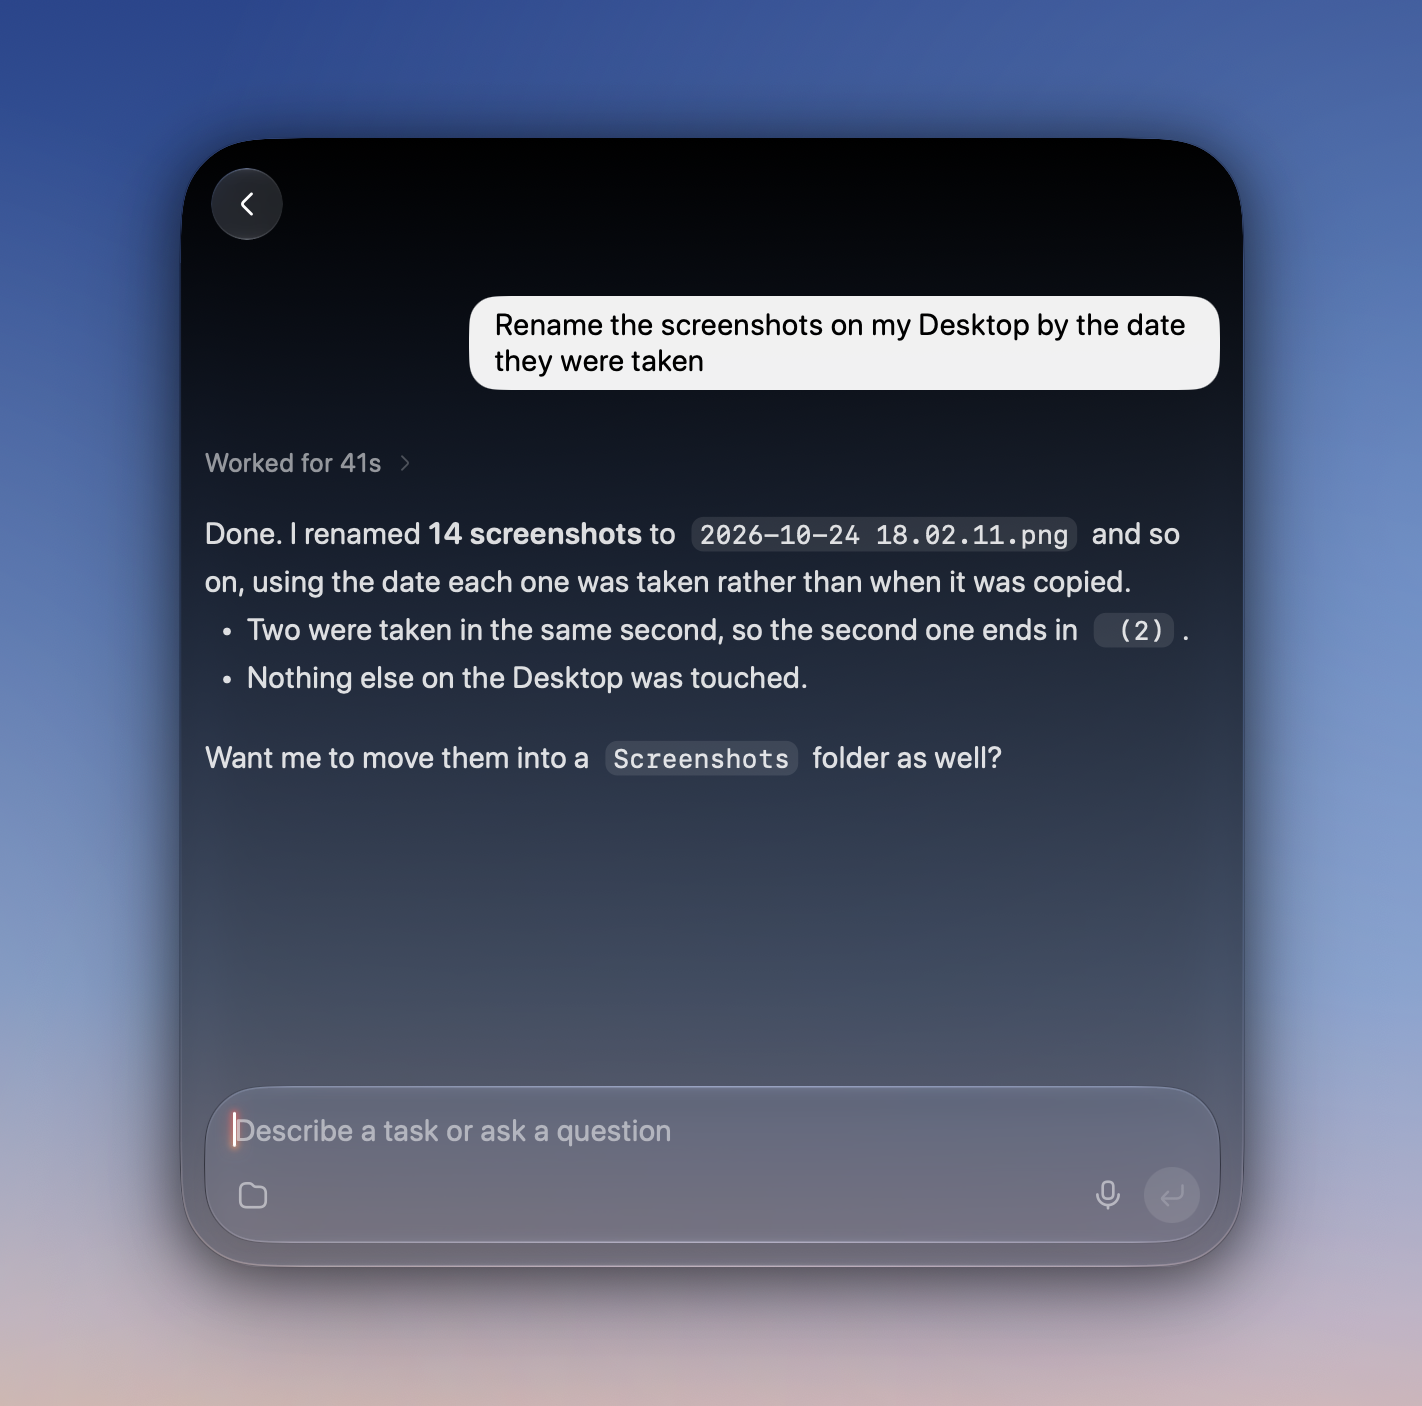
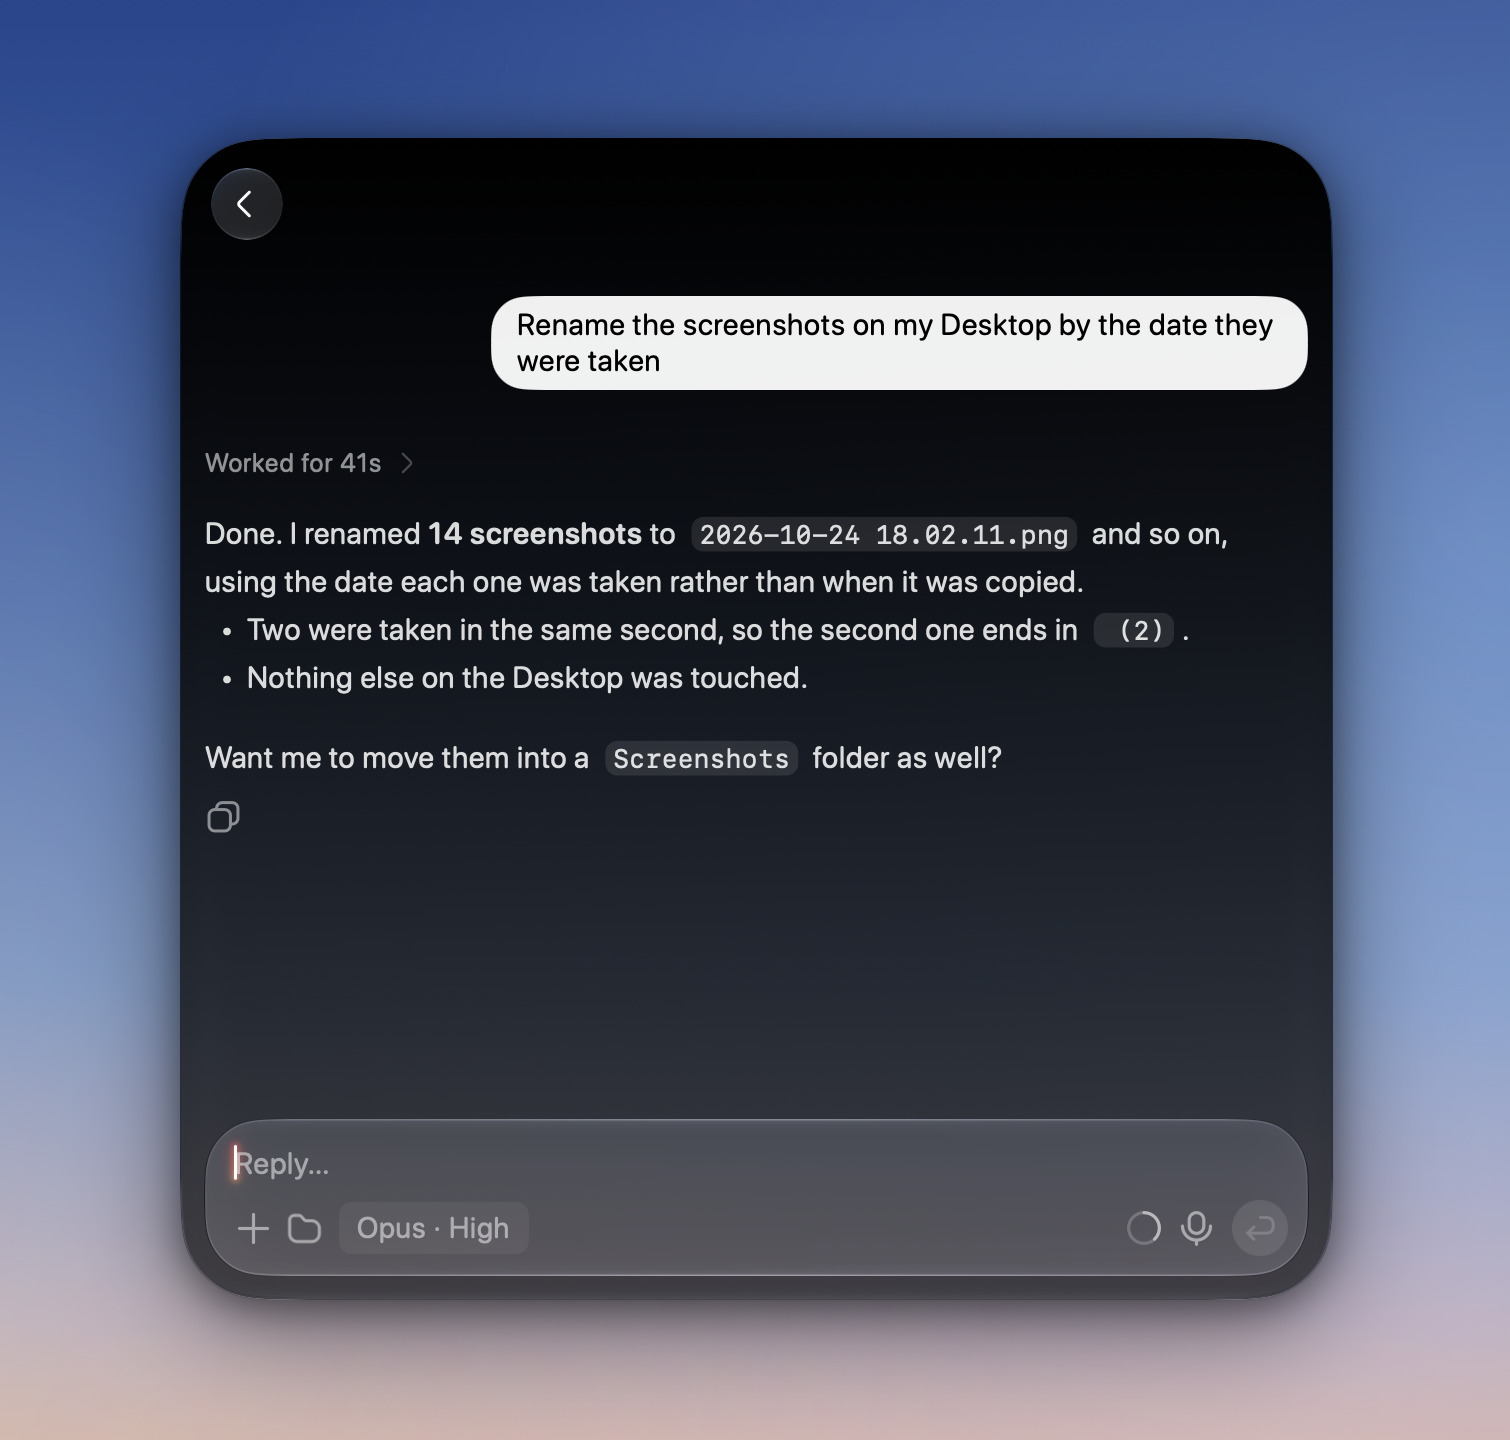
README: plainer words, stills in place of the animations, no FAQ

diff --git a/apps/macos/Tests/BolttyTests/ReadmeShotsOnScreen.swift b/apps/macos/Tests/BolttyTests/ReadmeShotsOnScreen.swift
@@ -24,6 +24,8 @@ final class ReadmeShotsOnScreen: XCTestCase {
     window.orderFrontRegardless()
     sunset.dawn()
     backdrop = window
+    // A pointer by the shell lights its corner grip.
+    CGWarpMouseCursorPosition(CGPoint(x: 2, y: screen.frame.height / 2))
     try await Task.sleep(for: .seconds(2.5))
   }
 
@@ -59,42 +61,14 @@ final class ReadmeShotsOnScreen: XCTestCase {
     try await Task.sleep(for: .seconds(1))
   }
 
-  func testRecordThePromptChangingFaces() async throws {
-    let (controller, _) = makePanel()
-    let view = try XCTUnwrap(controller.window?.contentView as? AgentPaletteView)
-    controller.show()
-    try await Task.sleep(for: .seconds(2))
-    let window = try XCTUnwrap(view.window)
-    view.layoutSubtreeIfNeeded()
-    let surface = window.convertToScreen(view.convert(view.unifiedSurfaceFrameForTesting, to: nil))
-    let reel = try record(surface.insetBy(dx: -60, dy: -44), seconds: 9, to: "prompt-faces.mov")
-    try await Task.sleep(for: .seconds(1.2))
-    for _ in 0..<5 {
-      _ = view.textView(view.field, doCommandBy: #selector(NSResponder.insertBacktab(_:)))
-      try await Task.sleep(for: .seconds(1.5))
-    }
-    reel.waitUntilExit()
-    controller.hide()
-    try await Task.sleep(for: .seconds(1))
-  }
-
   func testPhotographTheHistory() async throws {
     let (controller, _) = makePanel()
     let view = try XCTUnwrap(controller.window?.contentView as? AgentPaletteView)
     controller.show()
     try await Task.sleep(for: .seconds(1))
-    view.expandResultsForTesting()
+    _ = view.textView(view.field, doCommandBy: #selector(NSResponder.moveDown(_:)))
     try await Task.sleep(for: .seconds(2))
     try photograph(view, to: "history.png")
-
-    let reel = try record(view, seconds: 9, to: "faces.mov")
-    try await Task.sleep(for: .seconds(1))
-    for agent in [AgentId.claude, .codex, .opencode, .grok, .antigravity] {
-      view.historyTabsForTesting.onSelect?(agent)
-      try await Task.sleep(for: .seconds(1.4))
-    }
-    view.historyTabsForTesting.onSelect?(nil)
-    reel.waitUntilExit()
     controller.hide()
     try await Task.sleep(for: .seconds(1))
   }
@@ -105,6 +79,11 @@ final class ReadmeShotsOnScreen: XCTestCase {
     conversations.plannedProvider = AgentId.claude.rawValue
     conversations.launchable = AgentId.adapterCases.map(\.rawValue)
     conversations.inheritedDirectory = NSHomeDirectory()
+    conversations.agentsAcceptingAttachments = Set(conversations.launchable)
+    conversations.usages = [
+      AgentId.claude.rawValue: AgentUsage(windows: [AgentUsageWindow(kind: .session, usedPercent: 38)]),
+      AgentId.codex.rawValue: AgentUsage(windows: [AgentUsageWindow(kind: .weekly, usedPercent: 24)]),
+    ]
     let hour: TimeInterval = 3600
     let rows: [(String, AgentId, TimeInterval, AgentReportedState?, Bool)] = [
       ("Rename the screenshots on my Desktop by date", .claude, 0.1, nil, false),
@@ -122,6 +101,7 @@ final class ReadmeShotsOnScreen: XCTestCase {
         updatedAt: Date().addingTimeInterval(-ago * hour), state: state, hasUnread: unread)
     }
     let controller = AgentPaletteController(model: model, conversations: conversations)
+    (controller.window?.contentView as? AgentPaletteView)?.shellUsesClearGlass = true
     retained.append(conversations)
     return (controller, conversations)
   }
@@ -162,8 +142,13 @@ final class ReadmeShotsOnScreen: XCTestCase {
     conversations.conversationsByID[id] = Conversation(
       id: id, providerID: AgentId.claude.rawValue, title: question, workingDirectory: NSHomeDirectory())
     conversations.previews[id] = BolttyAISessionPreview(
-      id: id, title: "Rename the screenshots", agent: .claude, state: .finished, body: "", messages: messages)
+      id: id, title: "Rename the screenshots", agent: .claude, state: .finished, body: "", messages: messages,
+      modelChip: chip("Opus", "High"))
     return id
+  }
+
+  private func chip(_ name: String, _ effort: String) -> BolttyAIModelChip {
+    BolttyAIModelChip(name: name, effort: effort, help: "")
   }
 
   private func addPermission(to conversations: FakeBolttyAIConversations) -> UUID {
@@ -184,7 +169,8 @@ final class ReadmeShotsOnScreen: XCTestCase {
       question: permission,
       messages: [ConversationMessage(
         id: "u1", role: .user, createdAt: Date(),
-        parts: [.text(TextPart(id: "u1-text", kind: .text, text: request))])])
+        parts: [.text(TextPart(id: "u1-text", kind: .text, text: request))])],
+      modelChip: chip("GPT-5.5", "Medium"))
     return id
   }
 
@@ -197,7 +183,7 @@ final class ReadmeShotsOnScreen: XCTestCase {
     let heading = CGPoint(x: note.frame.minX + 92, y: note.frame.maxY - 80)
 
     let area = CGRect(x: note.frame.minX - 140, y: note.frame.minY - 60,
-                      width: note.frame.width + 520, height: note.frame.height + 120)
+                      width: note.frame.width + 280, height: note.frame.height + 120)
     let region = CGRect(x: heading.x - 70, y: heading.y - 30, width: 300, height: 60)
     let (controller, _) = makePanel()
     let view = try XCTUnwrap(controller.window?.contentView as? AgentPaletteView)
@@ -211,7 +197,6 @@ final class ReadmeShotsOnScreen: XCTestCase {
     overlay.restHint = { AskBolttyController.restHint(launchKey: "⌥Space") }
     let top = NSScreen.screens.first?.frame.maxY ?? pointer.y
     CGWarpMouseCursorPosition(CGPoint(x: pointer.x, y: top - pointer.y))
-    let reel = try record(area, seconds: 20, to: "ask-boltty.mov")
     try await Task.sleep(for: .seconds(0.8))
     controller.askAgain(about: region, agent: .claude)
     try await Task.sleep(for: .seconds(1))
@@ -223,6 +208,7 @@ final class ReadmeShotsOnScreen: XCTestCase {
       try await Task.sleep(for: .seconds(0.35))
     }
     try await Task.sleep(for: .seconds(1.2))
+    try photograph(area, to: "ask-listening.png")
 
     let closed = expectation(description: "the shell closed round the face")
     view.collapseToFace { closed.fulfill() }
@@ -238,11 +224,6 @@ final class ReadmeShotsOnScreen: XCTestCase {
     overlay.point(at: CGPoint(x: note.frame.minX + 152, y: heading.y))
     try await Task.sleep(for: .seconds(5))
     try photograph(area, to: "ask-boltty.png")
-    overlay.show(.idle, caption: "", agent: .claude)
-    // Asleep, not in `waitUntilExit`: its run loop would never drain the main
-    // queue, where the face's words are timed.
-    try await Task.sleep(for: .seconds(6.5))
-    reel.waitUntilExit()
     overlay.hide()
   }
 
@@ -307,14 +288,6 @@ final class ReadmeShotsOnScreen: XCTestCase {
   private func photograph(_ area: CGRect, to name: String) throws {
     let shot = try screencapture(["-x", "-R", rect(area), "\(directory)/\(name)"])
     shot.waitUntilExit()
-  }
-
-  private func record(_ view: AgentPaletteView, seconds: Int, to name: String) throws -> Process {
-    try record(area(around: view), seconds: seconds, to: name)
-  }
-
-  private func record(_ area: CGRect, seconds: Int, to name: String) throws -> Process {
-    try screencapture(["-x", "-v", "-V", "\(seconds)", "-R", rect(area), "\(directory)/\(name)"])
   }
 
   private func rect(_ area: CGRect) -> String {

diff --git a/apps/macos/Tests/BolttyTests/BolttyAITestSupport.swift b/apps/macos/Tests/BolttyTests/BolttyAITestSupport.swift
@@ -138,6 +138,9 @@ final class FakeBolttyAIConversations: BolttyAIConversations {
     agentsAcceptingAttachments.contains(providerID)
   }
 
+  var usages: [String: AgentUsage] = [:]
+  func usage(providerID: String) -> AgentUsage? { usages[providerID] }
+
   func plannedProviderID() -> String? { plannedProvider }
 
   var fallback: AgentRoutingFallback?

diff --git a/README.md b/README.md
@@ -5,7 +5,7 @@
 <h1 align="center">Boltty</h1>
 
 <p align="center">
-  A Siri replacement for your Mac, on top of the AI agents you already use.
+  The AI agents you already use, one key away anywhere on your Mac.
 </p>
 
 <p align="center">
@@ -24,61 +24,73 @@ It works with **Claude Code, Codex, OpenCode, Grok and Antigravity**. It has no
 model or account of its own, it just drives the ones already on your Mac.
 
 <p align="center">
-  <img src=".github/readme/prompt-faces.webp" width="100%" alt="The prompt on ⌥Space; ⇧Tab turns its face into each agent's in turn">
+  <img src=".github/readme/prompt.png" width="100%" alt="The Boltty prompt, with a request typed in">
 </p>
 
 ## Why I built this
 
-Most of my day is doing and running things, and along the way I keep asking an
-AI for help. Siri is too weak for that. In the terminal, the same jobs are easy:
-the agent CLIs handle them without a fuss. But I'm not always in a terminal.
+I kept opening a terminal for small things: find a file, fix a script, clean up a
+folder. The agents there were good at it, but I had to stop what I was doing to ask.
 
-So I made a Siri replacement on top of the CLIs I already use, one key away
-from whatever I'm doing, for the simple tasks and the not-so-simple ones.
+Now I press ⌥Space, ask, and carry on.
 
 ## What it does
 
-**Boltty AI: ask from anywhere.** ⌥Space opens a small prompt over whatever
-you're doing.
-Return starts the chat in the background, and the same panel turns into the chat
-when you want to read the answer, follow up or approve something. ↓ shows your
-recent chats and ⇧Tab switches the agent. Paste or drop a file or a picture and it
-sits over your words as a card. Open it over Finder and the chat starts in that
-folder, with the selected files already in the prompt.
+### Ask from anywhere
 
-<p align="center">
-  <img src=".github/readme/prompt.png" width="100%" alt="The Boltty AI prompt, with a request typed in">
-</p>
+Press ⌥Space and a small prompt drops from the top of the screen. Ask for
+something and press Return. You can close it right away, and the agent keeps
+working. Open it again to read the answer or ask something else.
+
+Press ↓ for your recent chats, or ⇧Tab to pick another agent. You can drop in files
+and pictures too. If you're in Finder, Boltty starts in the folder you have open and
+brings along the files you've selected.
 
 <p align="center">
   <img src=".github/readme/chat.png" width="100%" alt="A finished chat with Claude Code">
 </p>
 
-**Ask Boltty: ask about what's on your screen.** Open the panel, drag across the
-part you mean and ask out loud. The agent's face answers right next to your cursor, and it
-can point at things or draw on the screen. Turn on **Can make changes** in
-Settings and it can also do the thing: drag across a Finder window, say "organise
-this", and it does.
+### Ask about your screen
+
+See something you don't understand? Open the panel, drag across it and ask out
+loud. The agent answers right next to your cursor, and can point at things or draw
+on the screen to show you what it means. This is called Ask Boltty.
+
+It only looks and explains at first. Turn on **Can make changes** in Settings and it
+can do things too: drag across a Finder window, say "organise this", and it will.
 
 <p align="center">
-  <img src=".github/readme/ask-boltty.webp" width="100%" alt="Ask Boltty: an area of the screen selected and asked about, the answer typed out beside the face">
+  <img src=".github/readme/ask-listening.png" width="100%" alt="A heading selected on the screen, and a question about it said out loud">
 </p>
-
-**Talk to it.** Dictation works on your Mac out of the box. If you want more,
-Boltty can download two open models that also run on your Mac: Parakeet for
-dictation (25 languages, Ukrainian and English in one sentence is fine) and
-Supertonic, which reads answers aloud (31 languages).
-
-**Keep an eye on things.** A face by the notch shows what's running, and every
-agent has a face of its own. Chats survive a restart, and Settings shows how much
-of each plan you've used.
 
 <p align="center">
-  <img src=".github/readme/faces.webp" width="100%" alt="The chat list, switching between each agent's tab">
+  <img src=".github/readme/ask-boltty.png" width="100%" alt="The answer beside the agent's face, which points at the heading">
 </p>
 
-**You stay in charge.** Boltty asks before an agent runs a command or edits a
-file. A menu or a button only shows up if that agent can really do it.
+### Talk instead of typing
+
+Dictation works out of the box. You can also download two open models that run on
+your Mac. Parakeet takes dictation in 25 languages, and you can mix Ukrainian and
+English in one sentence. Supertonic reads answers aloud in 31.
+
+### See what's going on
+
+Every agent has its own face, and you choose how it looks. When one is working,
+finishes or needs you, its face shows up by the notch. Your chats are still there after
+a restart, and Boltty shows how much of each plan you've used.
+
+<p align="center">
+  <img src=".github/readme/history.png" width="100%" alt="The chat list, with a tab and a face for each agent">
+</p>
+
+### You have the last word
+
+Before an agent runs a command or edits a file, Boltty asks you. If you'd rather not
+be asked every time, turn on Auto Mode for that agent or just for one chat.
+
+<p align="center">
+  <img src=".github/readme/permission.png" width="100%" alt="Codex asking before it runs a command">
+</p>
 
 ## Install
 
@@ -144,19 +156,6 @@ macOS asks for permissions only when something needs them:
 An agent started from Boltty can do whatever the same CLI can do from your
 terminal. Boltty isn't a sandbox. What it adds is the approval step and the folder
 you choose.
-
-## FAQ
-
-**Is this a terminal?** No, and it won't be. It talks to the agents directly.
-
-**Which agent should I use?** Whichever you already pay for. You can switch for
-each chat with ⇧Tab.
-
-**Can I see a chat I started in the terminal?** No, only the ones started in
-Boltty.
-
-**Why doesn't ⌘Q quit?** Because that would stop agents in the middle of their
-work. Quit Boltty in the menu bar really quits.
 
 ## Building from source
 

diff --git a/AGENTS.md b/AGENTS.md
@@ -1866,12 +1866,10 @@ so in the orb ("No sound is reaching the microphone…",
   `com.boltty.app`, asset name `Boltty.dmg`, tag `v<MARKETING_VERSION>`.
   `scripts/bump-version.sh X.Y.Z` sets the version and bumps the build number.
 - `LICENSE` and `THIRD_PARTY_NOTICES.md` ship in every copy.
-- The README's pictures (`.github/readme/`) are the real panel and overlay over
-  Boltty's own sunset, taken by `ReadmeShotsOnScreen`
-  (`TEST_RUNNER_BOLTTY_README_SHOTS=<dir>`; it takes the screen for about a
-  minute, and shows the Standard backdrop whatever this Mac chose). The recordings
-  become animated WebP: frames at 15 fps from `ffmpeg`, then `img2webp -lossy -q 72`
-  (GIFs of the sunset run to 20 MB).
+- The README's pictures (`.github/readme/`) are stills of the real panel and overlay
+  over Boltty's own sunset, taken by `ReadmeShotsOnScreen`
+  (`TEST_RUNNER_BOLTTY_README_SHOTS=<dir>`; it takes the screen for about 40 s, and
+  shows the Standard backdrop on clear glass whatever this Mac chose).
 - **Updates** (`AppUpdater`): `GET api.github.com/repos/ruslan-enko/boltty/releases/latest`
   at launch and hourly when a day has passed, switchable in Settings. A newer
   version turns *Check for Updates…* into *Install Boltty X…*; nothing is
